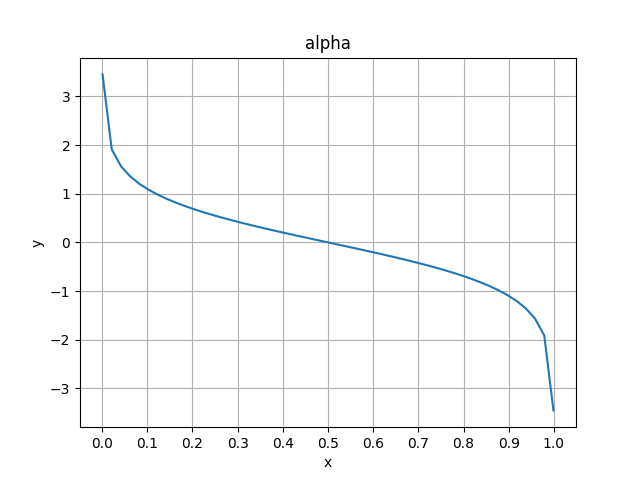
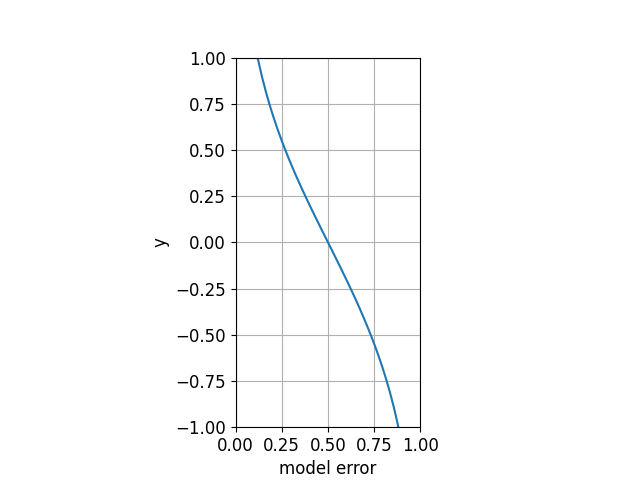
a

diff --git a/root/Adaboost/codes/figure.py b/root/Adaboost/codes/figure.py
@@ -1,46 +1,74 @@
 import numpy as np
 import matplotlib.pyplot as plt
+import matplotlib as mpl
+from matplotlib import font_manager, rc
 
+#mpl.rcParams.update(mpl.rcParamsDefault)
+#mpl.rcParams["text.usetex"] = True
+font_name = font_manager
+#mpl.rcParams['font.family'] =  'Times New Roman'
+mpl.rcParams['font.size'] = 12
+mpl.rcParams['legend.fontsize'] = 12
+# mpl.rcParams['lines.linewidth'] = 2
+# mpl.rcParams['lines.linecolor'] = 'r'
+# mpl.rcParams['lines.linestyle'] = '--'
+# mpl.rcParams['axes.gird'] = 1
+# mpl.rcParams['axes.xmargin'] = 0.1
+# mpl.rcParams['axes.ymargin'] = 0.1
+# mpl.rcParams['mathtext.fontset'] = "dejavuserif"
+# mpl.rcParams['figure.dpi'] = 500
+# mpl.rcParams['savefig.dpi'] = 500
 
 x = np.linspace(0.001,0.999,50)
-print(x)
-# (1-x) / x > 0
-# x(1-x) > 0, x > 1, x < 1
-# x=0: 0, x=1: 0
-# x > 1, x < 1
-# x > 1: -
-# 0 < x < 1: +
-# x < 0: -
 
-y = 0.5*np.log((1-x)/x)
-print(y)
+def model_w():
 
-plt.plot(x, y)
-plt.xticks(np.arange(11)*0.1)
-plt.grid(True)
-plt.xlabel('x')
-plt.ylabel('y')
-plt.title('alpha')
-plt.savefig('../images/alpha_t.png')
-#plt.show()
-plt.clf()
+    # (1-x) / x > 0
+    # x(1-x) > 0, x > 1, x < 1
+    # x=0: 0, x=1: 0
+    # x > 1, x < 1
+    # x > 1: -
+    # 0 < x < 1: +
+    # x < 0: -
 
-z = np.exp(2*y)
-#z = (1-x)/x
+    y = 0.5*np.log((1-x)/x)
 
-plt.plot(x, z)
-plt.xticks(np.arange(11)*0.1)
-plt.yticks(np.arange(101))
-plt.ylim(-0.01, 10)
-plt.grid(True)
-plt.xlabel('x')
-plt.ylabel('z')
-plt.title('exp')
-plt.savefig('../images/exp_a.png')
-plt.show()
+    plt.plot(x, y)
+    plt.xticks(np.arange(6)*0.25)
+    plt.xlim(0, 1)
+    plt.ylim(-1, 1)
+    ax = plt.gca()
+    ax.set_aspect('equal', adjustable='box')
 
+    plt.grid(True)
+    plt.xlabel('model error')
+    plt.ylabel('y')
+    #plt.title('alpha')
+    plt.savefig('../images/alpha_t.png')
+    plt.show()
 
+def data_w():
+    # plt.clf()
 
+    z = np.sqrt((1-x)/x) # 틀린경우
+    z_ = 1/z # 맞은경우
+    #z = (1-x)/x
 
+    plt.plot(x, z, color='r', label='wrong')
+    plt.plot(x, z_, color='g', label='correct')
+    plt.xticks(np.arange(6)*0.25)
+    plt.yticks(np.arange(11)*0.2)
+    plt.xlim(0.0, 1.0)
+    plt.ylim(0.0, 2)
+    ax = plt.gca()
+    ax.set_aspect('equal', adjustable='box')
+    plt.grid(True)
+    plt.xlabel('model error')
+    plt.ylabel('y')
+    #plt.title('update weight')
+    plt.legend()
+    plt.savefig('../images/update_w.png')
+    plt.show()
 
-
+model_w()
+data_w()

diff --git a/root/Adaboost/example1.md b/root/Adaboost/example1.md
@@ -5,11 +5,37 @@ sort: 1
 # example1
 ## Binay Classification
 
-## Model Weight
-모델 가중치 \\(\alpha_t\\)는 수식(1)과 같이 모델 에러 \\(\epsilon_t\\)로부터 계산된다. 아래 그림`alpha`
-는 그래프로 표현한것이다. 만약 \(\epsilon_t\)가 0.5라면 \\(\alpha_t\\) 가 0이 되어서 해당 모델이 쓸모없다는것을 알수 있다. 반면 \\(\epsilon_t\\) 가 0과 1에 근접했을때 \\(\alpha_t\\)가 급격하게 각각 증가,감소하는것을 볼수 있다.    
+  - Training set    
+  \\( h \\)차원 학습데이터 \\( x \\)이 N개 주워졌고 각 데이터에 레이블 \\( y \\) 또한 N개 주워졌다. 레이블이 1 또는 -1 값을 가지는 이진분류 문제이다.
+  
+  $$ (x_i,y_i) \ where \ i=1,\dots,N
+  \newline  \ x_i \in \R^h, y_i \in Y = \{-1, 1\}$$ 
 
-$$\alpha_t = \frac{1}{2}\ln{\frac{1-\epsilon_t}{\epsilon_t}} \tag{1}$$
+  - Data weight    
+  각 학습데이터마다 중요도를 나타내는 가중치\\( D_i \\)가 있고, 이 가중치는 매 round마다 갱신되며 최대 T번 round가 진행된다. 초기 \\( t=1 \\) 에서 초기값은 \\( \frac{1}{N} \\)로 초기화된다.
+  $$
+  D_i^t \ where \  i=1,\dots,N \ t=1,\dots,T
+  \newline 
+  D_i^1=\frac{1}{N}
+  $$
+
+  - Model
+    - Weak model    
+    h 차원의 hyperplane으로 분류 하는 선형 모델로 표현했다. \\( sign\\) 함수는 입력값의 부호만 반환하여 0인 경우 0을 반환한다.
+      $$\widehat y = M_t(x_i) = sign(w_1*_1x_i+\dots+ w_h*_hx_i+ bias)$$
+    - final model
+    $$ \widehat y = F(x) =sign(\sum_{t=1}^T{\alpha_t M_t(x)})$$
+
+    - Model error   
+    모델 에러 \\( \varepsilon_t \\)는 모델이 잘못 예측한 학습데이터의 가중치를 합한것이다. 모든 데이터에 대해서 다 틀린경우 1이되고, 다 맞힌경우 0이된다.
+    $$ \varepsilon_t = \sum_i^N D_i^tI(y_i \neq M_t(x_i)), \ where \ I(true)=1, \ I(flase) = 0 $$
+
+## Model Weight
+모델 가중치 \\(\alpha_t\\)는 수식(1)과 같이 모델 에러 \\(\epsilon_t\\)로부터 계산된다. 그래프로 그려보면 Figure.1과 같다. 만약 \(\epsilon_t\)가 0.5라면 \\(\alpha_t\\) 가 0이 되어서 해당 모델이 쓸모없다는것을 알수 있다. 반면 \\(\epsilon_t\\) 가 0과 1에 근접했을때 \\(\alpha_t\\)가 급격하게 각각 증가,감소하여 예측 기여도가 높아짐을 알수 있다.    
+
+$$
+\alpha_t = \frac{1}{2}\ln{\frac{1-\epsilon_t}{\epsilon_t}}
+$$ (1)
 
 <figure>
 <figcaption>Figure.1</figcaption>
@@ -17,5 +43,19 @@ $$\alpha_t = \frac{1}{2}\ln{\frac{1-\epsilon_t}{\epsilon_t}} \tag{1}$$
 </figure>
 
 ## Update Data Weight
-$$D_i^{t+1}=\frac{}{}$$
-<img src="images/exp_a.png" width=350px>
+$$
+e^{0.5\ln{\frac{1-e_t}{e_t}}}=\sqrt{\frac{1-e_t}{e_t}}
+$$ (2)
+
+$$
+U_i^t = \begin{cases} 
+\sqrt{\frac{e}{1-e}} \ \ \ if\  y_i = M_t(x_i), \ correct \ case \\\\\\
+\sqrt{\frac{1-e}{e}}, \ \ \ if\ y_i \neq M_t(x_i) \ wrong \ case
+ \end{cases}
+\newline    
+\newline    
+$$ (2)
+$$
+D_i^{t+1}=\frac{D_i^{t}U_i^t}{\sum_{j=0}^{N}D_j^{t}U_j^t}
+$$ (2)
+<img src="images/update_w.png" width=350px>

diff --git a/root/Adaboost/README.md b/root/Adaboost/README.md
@@ -5,7 +5,7 @@ sort: 1
 Adaboost 는 Adaptive Boosting의 약자이다.   
 `Machine learning meta-algorithm`으로 다른 learning algorithm과 함께 사용하여 성능향상을 할 수 있다.  
 여러 model을 enssenble하여 성능 boosting을 한다.  
-각 model의 성능이 안좋더라도 enssenble하면 좋아진다.    
+각 model의 성능이 약하더라도 enssenble하면 향상된다.    
 이런 의미에서 각 하나의 model을 `weak model`로 부른다.   
 학습은 model 하나씩 순차적으로 학습해나가는 방식이다.  
 총 모델들를 학습하는 횟수를 `Round`라고 한다. 
